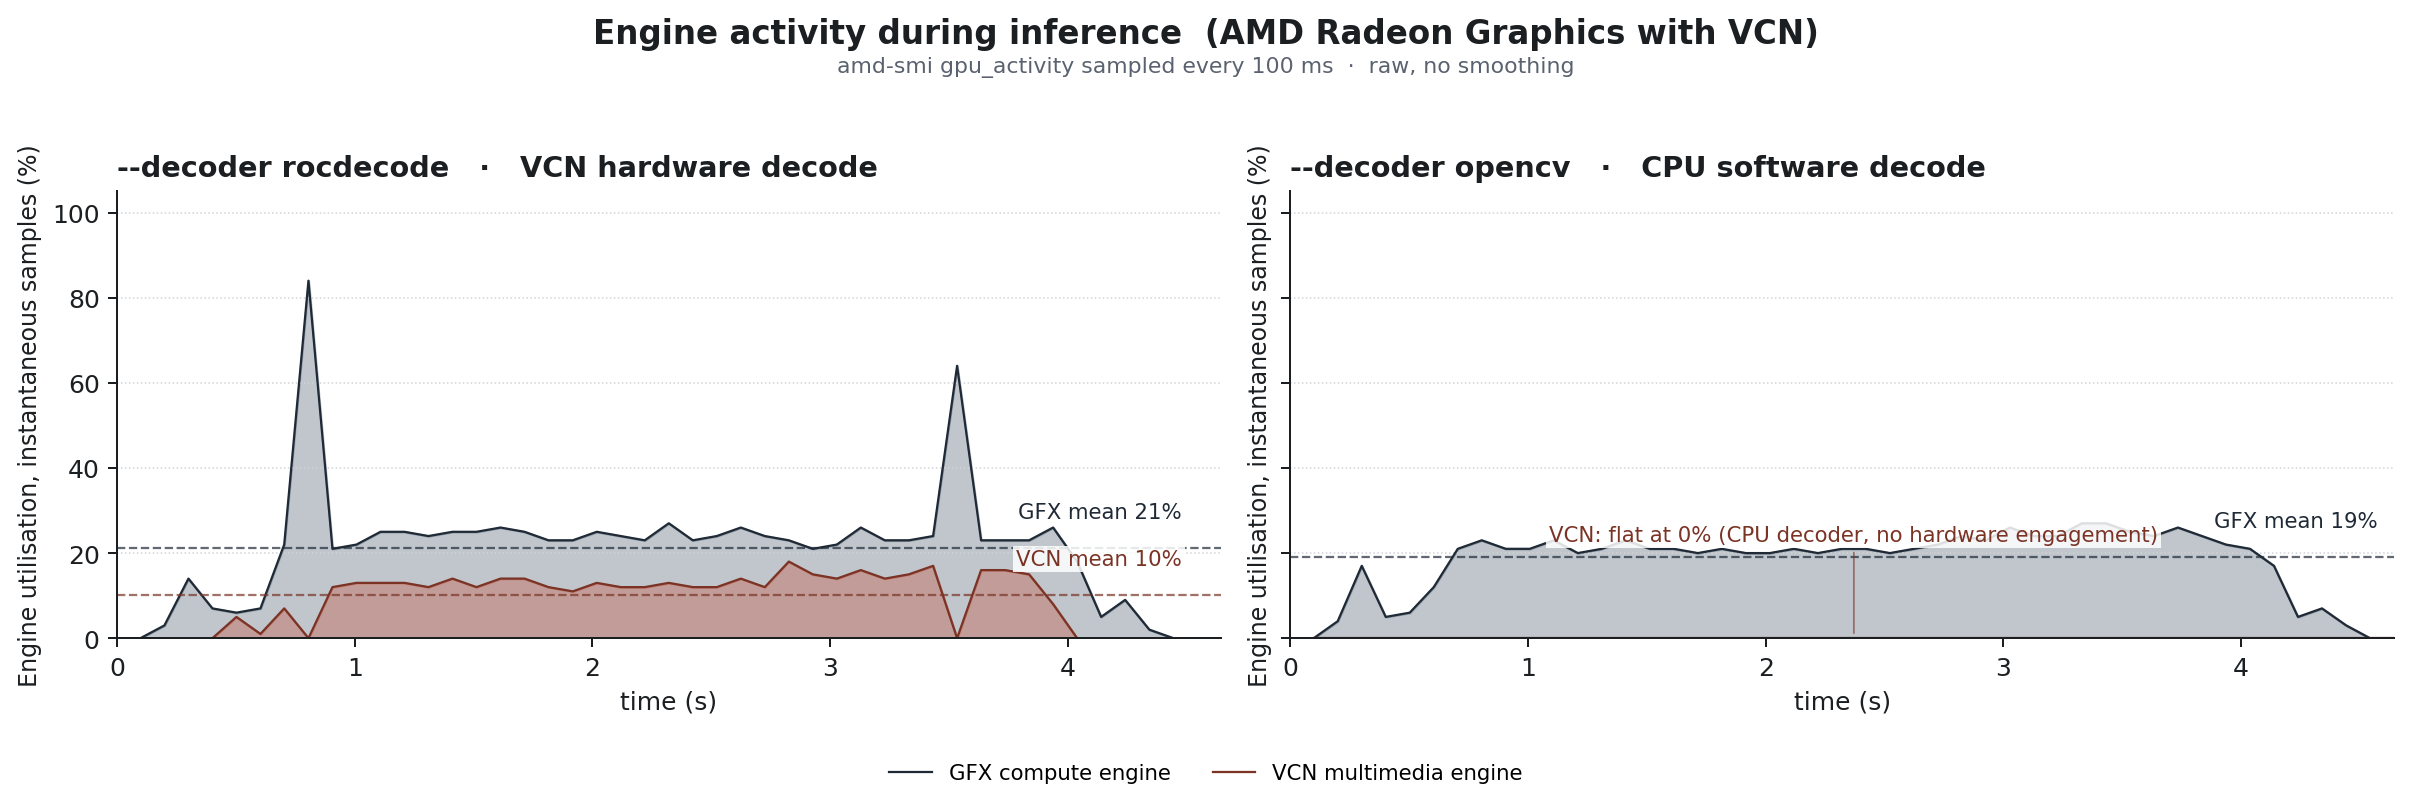
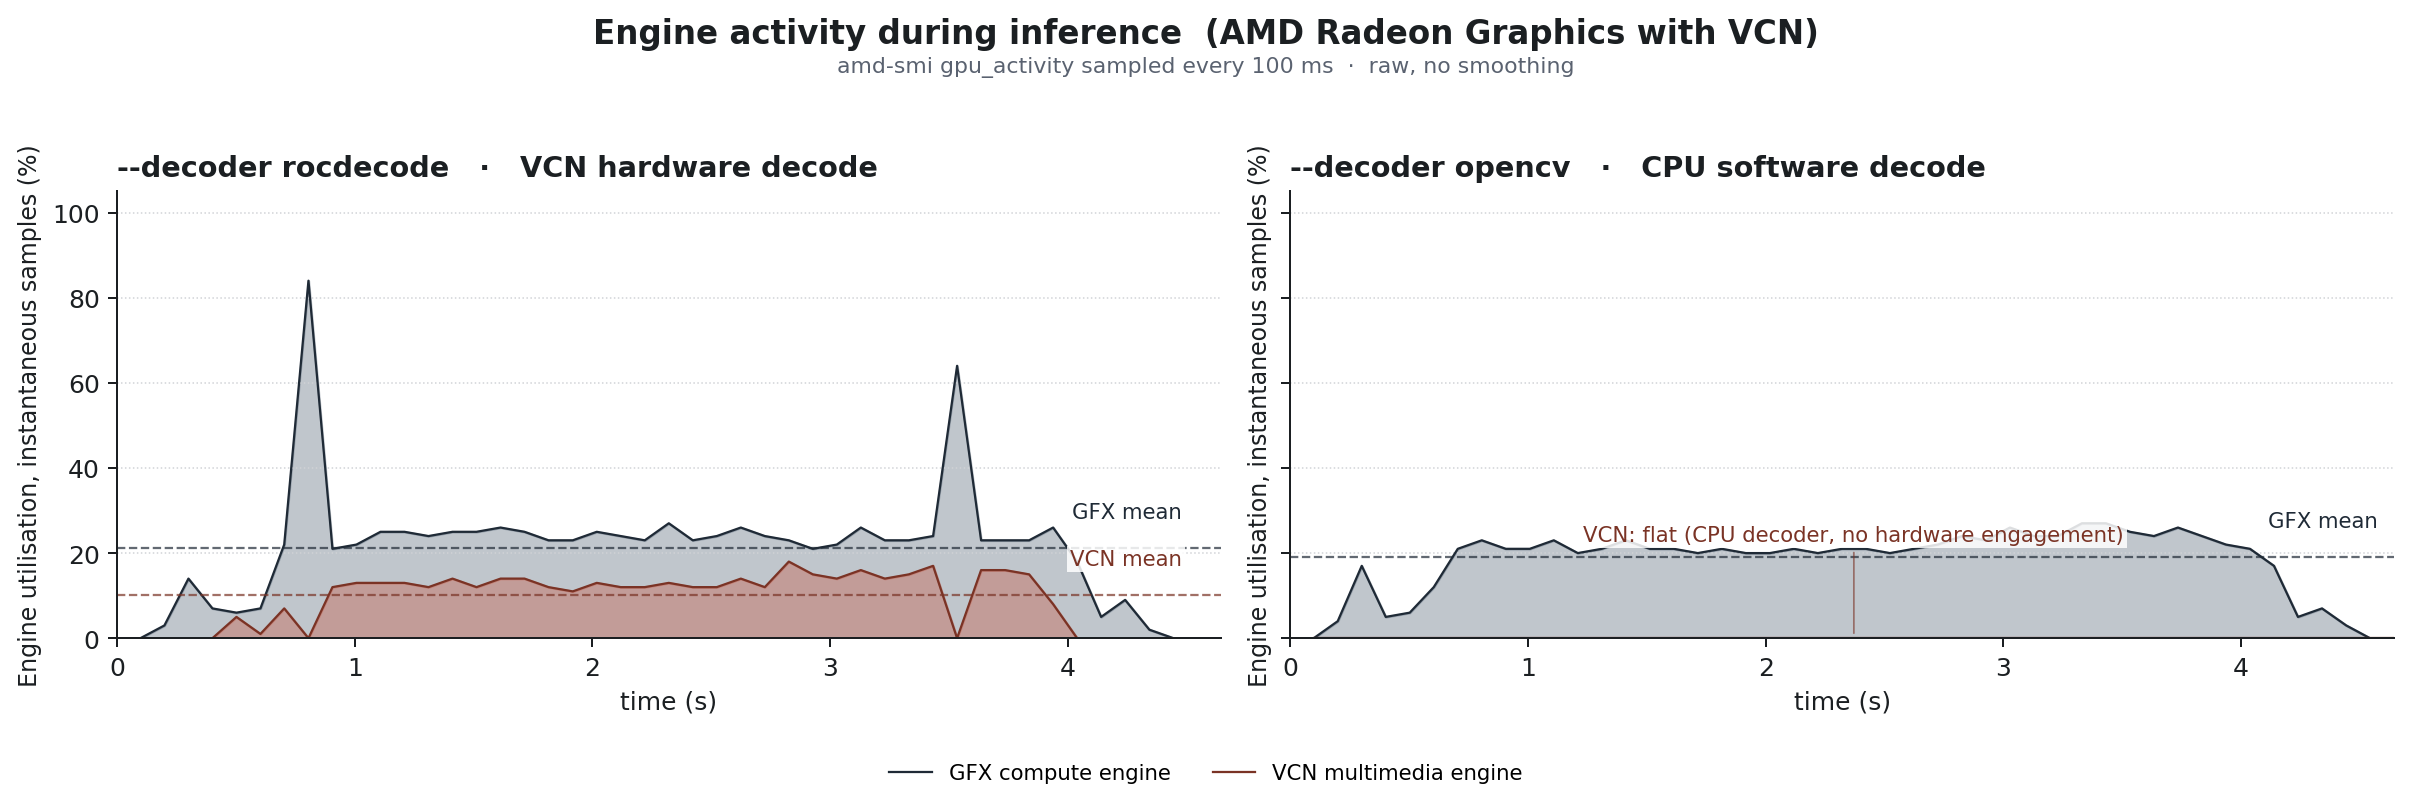
Drop hardware-specific utilization percentages and matching endnote; fix minor issues

diff --git a/blogs/artificial-intelligence/gpu-resident-yolo26/README.md b/blogs/artificial-intelligence/gpu-resident-yolo26/README.md
@@ -1,26 +1,26 @@
 ---
 blogpost: true
 blog_title: "Building a GPU-Resident YOLO26 Object Detection Pipeline on the AMD Radeon AI PRO R9700 GPU"
-date: "11 May 2026"
-author: "Ivan Tikhonov, Aleksandr Suslov"
+date: 22 Apr 2026
+author: 'Ivan Tikhonov, Aleksandr Suslov'
 thumbnail: 'gpu-resident-pipeline-thumbnail.jpg'
-tags: "AI/ML, Computer Vision, PyTorch"
-category: "Applications & models"
-target_audience: "PyTorch and ML/CV engineers running on AMD Radeon Graphics and Instinct hardware"
-key_value_propositions: "Build a hardware-accelerated, end-to-end object detection pipeline on AMD GPUs where video frames stay in VRAM from decode to detection, chaining rocDecode, DLPack, and MIGraphX."
+tags: Computer Vision, AI/ML, PyTorch
+category: Applications & models
+target_audience: PyTorch and ML/CV engineers running on AMD Radeon Graphics and Instinct hardware
+key_value_propositions: Build a hardware-accelerated, end-to-end object detection pipeline on AMD GPUs where video frames stay in VRAM from decode to detection, chaining rocDecode, DLPack, and MIGraphX.
 language: English
 myst:
     html_meta:
         "author": "Ivan Tikhonov, Aleksandr Suslov"
         "description lang=en": "Build a GPU-resident object detection pipeline on AMD GPUs with rocDecode, DLPack, and MIGraphX. Frames stay in VRAM end to end."
         "keywords": "ROCm 7.2, rocDecode, MIGraphX, DLPack, PyTorch, GPU-resident, VCN, YOLO26, Computer Vision, Radeon Graphics, Instinct GPUs"
-        "vertical": "AI, Developers"
+        "vertical": "AI"
         "amd_category": "Developer Resources"
         "amd_asset_type": "Blog"
         "amd_technical_blog_type": "Applications and Models"
         "amd_blog_hardware_platforms": "Radeon Graphics, Instinct GPUs"
         "amd_blog_development_tools": "ROCm Software"
-        "amd_blog_applications": "Computer Vision, AI Inference"
+        "amd_blog_applications": "AI Inference, Computer Vision"
         "amd_blog_topic_categories": "AI & Intelligent Systems"
         "amd_blog_authors": "Ivan Tikhonov, Aleksandr Suslov"
 ---
@@ -51,7 +51,7 @@ SOFTWARE.
 
 Modern AMD GPUs include a dedicated hardware block for video processing called the Video Core Next (VCN) engine. By chaining VCN directly into machine learning frameworks, you can build an object detection pipeline where a video frame stays in VRAM from decode to the final bounding boxes. The host sees only the surviving detections.
 
-In this guide, we build that pipeline on the AMD ROCm™ 7.2 platform, using [Ultralytics YOLO26](https://docs.ultralytics.com/models/yolo26/) as the detector. The complete source code for this tutorial lives in the [companion GitHub repository](https://github.com/ROCm/rocm-examples/tree/amd-staging/AI/MIGraphX/gpu_resident_yolo26_pipeline).
+In this guide, we build that pipeline on the AMD ROCm™ 7.2 platform, using [Ultralytics YOLO26](https://docs.ultralytics.com/models/yolo26/) as the detector. The complete source code for this tutorial lives in the [companion GitHub repository](https://github.com/amd/rocm-examples).
 
 We integrate three core components:
 
@@ -114,7 +114,7 @@ python3 -c 'import pyRocVideoDecode.decoder, migraphx; print("Libraries loaded s
 
 ### Compile the model
 
-MIGraphX compiles the ONNX graph into a GPU-tuned `.mxr` binary. We use Ultralytics' [`yolo26s.pt`](https://docs.ultralytics.com/models/yolo26/), the small variant of the YOLO26 object detector (9.5 M params, 48.6 mAP on COCO). Its end-to-end head emits a `[1, 300, 6]` tensor (`[x1, y1, x2, y2, conf, class_id]` per row) and skips NMS entirely.
+MIGraphX compiles the ONNX graph into a GPU-tuned `.mxr` binary. We use Ultralytics' [`yolo26s.pt`](https://docs.ultralytics.com/models/yolo26/), the small variant of the YOLO26 object detector. Its end-to-end head emits a `[1, 300, 6]` tensor (`[x1, y1, x2, y2, conf, class_id]` per row) and skips NMS entirely.
 
 The build runs in two separate Python invocations: first export `yolo26s.pt` to ONNX, then compile that ONNX into a MIGraphX `.mxr` binary. Splitting them avoids an Ultralytics side effect that hides the GPU from MIGraphX when both steps share a process.
 
@@ -141,7 +141,7 @@ migraphx.save(model, "model.mxr")
 
 ## Step 1: GPU-native decoding with rocDecode
 
-The input is an MP4 or MKV file with H.264 or H.265 video. This guide uses `peloton_sample_ai_gen.mp4`, a 15-second 1920×1080 H.264 cycling clip shipped alongside the source code in the [companion GitHub repository](https://github.com/ROCm/rocm-examples/tree/amd-staging/AI/MIGraphX/gpu_resident_yolo26_pipeline). The clip is upscaled with FFmpeg's lanczos filter from a 1280×704 AI-generated source produced with [Qwen-Image-2512](https://huggingface.co/Qwen/Qwen-Image-2512) and [Wan 2.2 I2V-A14B](https://huggingface.co/Wan-AI/Wan2.2-I2V-A14B) on an AMD Instinct™ MI350X GPU with ROCm 7.2.
+The input is an MP4 or MKV file with H.264 or H.265 video. This guide uses `peloton_sample_ai_gen.mp4`, a 15-second 1920×1080 H.264 cycling clip shipped alongside the source code in the [companion GitHub repository](https://github.com/amd/rocm-examples). The clip is upscaled with FFmpeg's lanczos filter from a 1280×704 AI-generated source produced with [Qwen-Image-2512](https://huggingface.co/Qwen/Qwen-Image-2512) and [Wan 2.2 I2V-A14B](https://huggingface.co/Wan-AI/Wan2.2-I2V-A14B) on an AMD Instinct™ MI350X GPU with ROCm 7.2.
 
 Two rocPyDecode components turn the file into GPU-resident frames:
 
@@ -214,7 +214,7 @@ for _ in range(n_frames):
 
 ## Step 2: GPU-native preprocessing with PyTorch
 
-With `rgb` resident on the GPU, we run YOLO preprocessing natively in PyTorch using [torch.nn.functional](https://pytorch.org/docs/stable/nn.functional.html). Reshape, normalisation, resize, and letterbox pad each allocate a new device tensor on the active PyTorch stream, the same stream MIGraphX uses in Step 3. None of these steps touch host memory.
+With `rgb` resident on the GPU, we run YOLO preprocessing natively in PyTorch using [torch.nn.functional](https://pytorch.org/docs/stable/nn.functional.html). Reshape, normalization, resize, and letterbox pad each allocate a new device tensor on the active PyTorch stream, the same stream MIGraphX uses in Step 3. None of these steps touch host memory.
 
 ```python
 import torch.nn.functional as F
@@ -240,7 +240,7 @@ def preprocess_spatial(tensor: torch.Tensor, target: int = 640) -> torch.Tensor:
     new_h, new_w = int(h * scale), int(w * scale)
     tensor = F.interpolate(tensor, size=(new_h, new_w), mode="bilinear", align_corners=False)
     padding = (pad_x, target - new_w - pad_x, pad_y, target - new_h - pad_y)
-    tensor = F.pad(tensor, padding, value=114.0 / 255.0)  # YOLO letterbox grey
+    tensor = F.pad(tensor, padding, value=114.0 / 255.0)  # YOLO letterbox gray
     return tensor.contiguous()
 ```
 
@@ -315,7 +315,7 @@ def transform_coordinates(survivors: torch.Tensor, scale: float, pad_x: int, pad
     return survivors
 ```
 
-A single `survivors.cpu().numpy()` lifts the result to the host. If the next consumer is another GPU stage (tracker, serialiser, downstream model), even that copy disappears.
+A single `survivors.cpu().numpy()` transfers the result to the host. If the next consumer is another GPU stage (tracker, serializer, downstream model), that final copy is unnecessary too.
 
 The 4 steps now compose into a minimal per-frame loop:
 
@@ -353,7 +353,7 @@ while True:
         break
 ```
 
-The full runnable sample is in the [companion GitHub repository](https://github.com/ROCm/rocm-examples/tree/amd-staging/AI/MIGraphX/gpu_resident_yolo26_pipeline); its `main.py` adds command-line parsing and an OpenCV CPU decoding baseline on top of the snippets in this section.
+The full runnable sample is in the [companion GitHub repository](https://github.com/amd/rocm-examples); its `main.py` adds command-line parsing and an OpenCV CPU decoding baseline on top of the snippets in this section.
 
 ### Adapting to YOLO models that need NMS
 
@@ -404,11 +404,11 @@ GPU: 0
 
 To see how this maps to the hardware over a longer run, we can plot the engine activity side-by-side.
 
-When using the `rocDecode` path, the VCN multimedia engine and the GFX compute engine run concurrently. VCN handles the compressed bitstream at a low, steady utilization (mean 10%<sup>[1](#endnote)</sup>), visible as a continuous low fill in the chart; it is a fixed-function hardware block that decodes H.264/H.265 far faster than real-time for a single stream, so it spends most of its time waiting for the next frame. The GFX compute engine maintains a steady ~21%<sup>[1](#endnote)</sup> load executing the PyTorch preprocessing, MIGraphX inference, and the `GetFrameRgb` color conversion kernel.
+When using the `rocDecode` path, the VCN multimedia engine and the GFX compute engine run concurrently. VCN handles the compressed bitstream at a low, steady utilization, visible as a continuous low fill in the chart; a single H.264/H.265 stream uses only a small fraction of the fixed-function block, which idles between frames. The GFX compute engine carries the rest of the per-frame work: the `GetFrameRgb` color conversion kernel, PyTorch preprocessing, and MIGraphX inference.
 
-Falling back to the OpenCV baseline disables the hardware decode path entirely. The VCN engine flatlines at 0% because the host CPU now decompresses the video. The GFX compute engine still runs the neural network pipeline, but its average load falls slightly (to ~19%<sup>[1](#endnote)</sup>) because OpenCV delivers pre-converted RGB frames, sparing the GPU from the color conversion step.
+Falling back to the OpenCV baseline disables the hardware decode path entirely. The VCN engine remains idle because the host CPU now decompresses the video. The GFX compute engine still runs the neural network pipeline, but its load is also reduced because OpenCV delivers pre-converted RGB frames, sparing the GPU from the color conversion step.
 
-![Side-by-side engine activity during inference: rocDecode panel shows GFX and VCN with dashed means (21% / 10%); OpenCV panel shows flat VCN with on-plot CPU-decoder note and lower GFX mean (19%).](images/vcn_activity.png)
+![Side-by-side engine activity during inference: rocDecode panel shows both GFX and VCN engines active concurrently; OpenCV panel shows VCN flatlined because the host CPU performs decompression.](images/vcn_activity.png)
 
 For a timeline-level view, [`rocprofv3`](https://rocm.docs.amd.com/projects/rocprofiler-sdk/en/latest/) shows per-engine VCN activity side by side with HIP kernel launches.
 
@@ -427,11 +427,8 @@ The reference implementation has two intentional constraints:
 * [rocJPEG Documentation](https://rocm.docs.amd.com/projects/rocJPEG/en/latest/), the still-image counterpart to rocDecode for single-image pipelines, which plugs into the same DLPack → MIGraphX path. See also [rocJPEG decoding performance on AMD Instinct GPUs](https://rocm.blogs.amd.com/artificial-intelligence/rocjpeg-decoding-performance-blog/README.html).
 * [DLPack Specification](https://dmlc.github.io/dlpack/latest/)
 
-## Endnote
-
-<a id="endnote"></a>
-
-**[1]** Measured on AMD Radeon™ AI PRO R9700, ROCm 7.2.2, `rocm/pytorch:rocm7.2.2_ubuntu22.04_py3.10_pytorch_release_2.10.0`, `yolo26s` FP16, 1920×1080 H.264 input at 16 fps, `batch=1`, 15.2 s source clip (AI-generated, upscaled from 1280×704 to 1920×1080 with FFmpeg `scale=1920:1080:flags=lanczos`). Method: `amdsmi.amdsmi_get_gpu_activity` sampled every 100 ms; means computed over the active-pipeline window after auto-trim of the model-load spike and idle tail. Results are configuration-specific and may vary.
 ## Disclaimers
 
 Third-party content is licensed to you directly by the third party that owns the content and is not licensed to you by AMD. ALL LINKED THIRD-PARTY CONTENT IS PROVIDED “AS IS” WITHOUT A WARRANTY OF ANY KIND. USE OF SUCH THIRD-PARTY CONTENT IS DONE AT YOUR SOLE DISCRETION AND UNDER NO CIRCUMSTANCES WILL AMD BE LIABLE TO YOU FOR ANY THIRD-PARTY CONTENT. YOU ASSUME ALL RISK AND ARE SOLELY RESPONSIBLE FOR ANY DAMAGES THAT MAY ARISE FROM YOUR USE OF THIRD-PARTY CONTENT.
+
+Use of certain video codecs (including but not limited to H.264 / AVC, H.265 / HEVC, VP9, and AV1) may require licenses from third parties (such as MPEG LA, Via LA, the Alliance for Open Media, or other patent licensing pools or rights holders). It is the user’s responsibility to obtain any such licenses required for the user’s use of any such codecs. AMD provides no patent rights or licenses for the use of any such codecs through AMD products or technologies.
